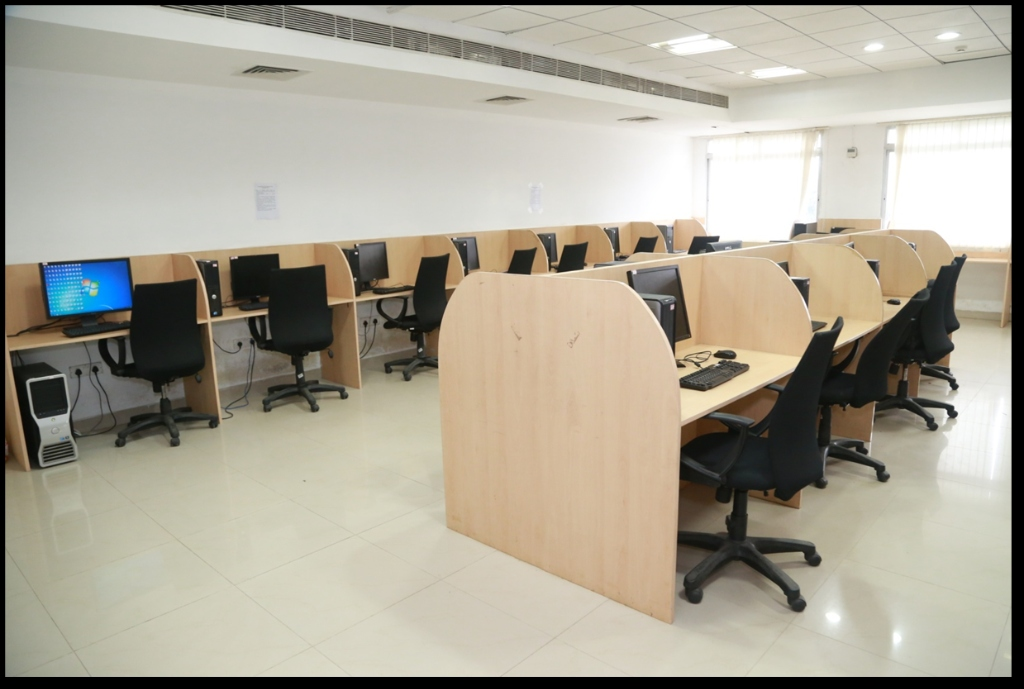
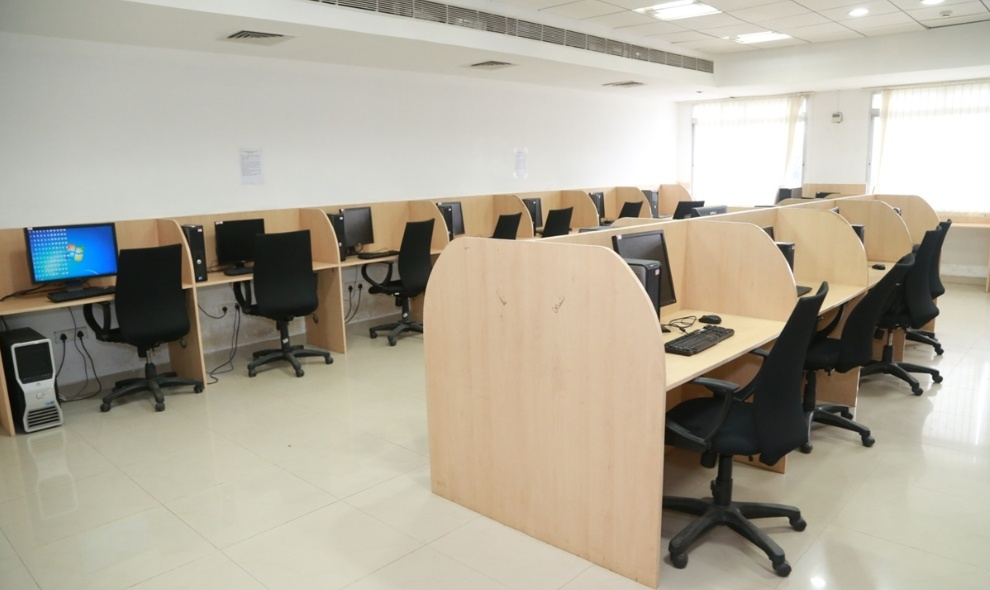
Fit and zoom computer laboratory photo to eliminate borders and fill cards cleanly

diff --git a/src/index.css b/src/index.css
@@ -1462,6 +1462,7 @@ a {
   flex-direction: column;
   box-shadow: 0 10px 24px -18px rgba(15, 23, 42, 0.14);
   transition: transform 0.2s ease, box-shadow 0.2s ease;
+  overflow: hidden;
 }
 
 .photo-card:hover {
@@ -1474,6 +1475,11 @@ a {
   height: 225px;
   object-fit: cover;
   border-bottom: 1px solid var(--border-structural);
+  transition: transform 0.35s ease;
+}
+
+.photo-card:hover .photo-card__img {
+  transform: scale(1.04);
 }
 
 .photo-card__img--portrait {
